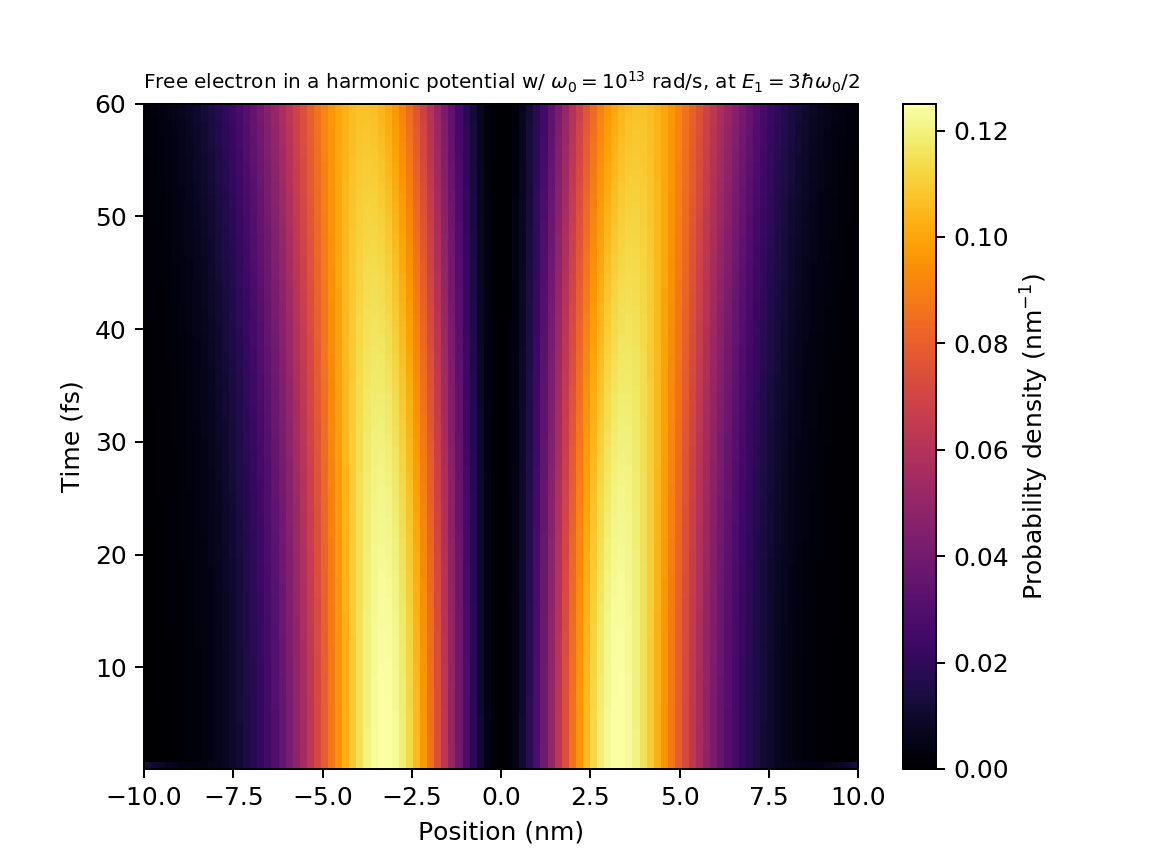
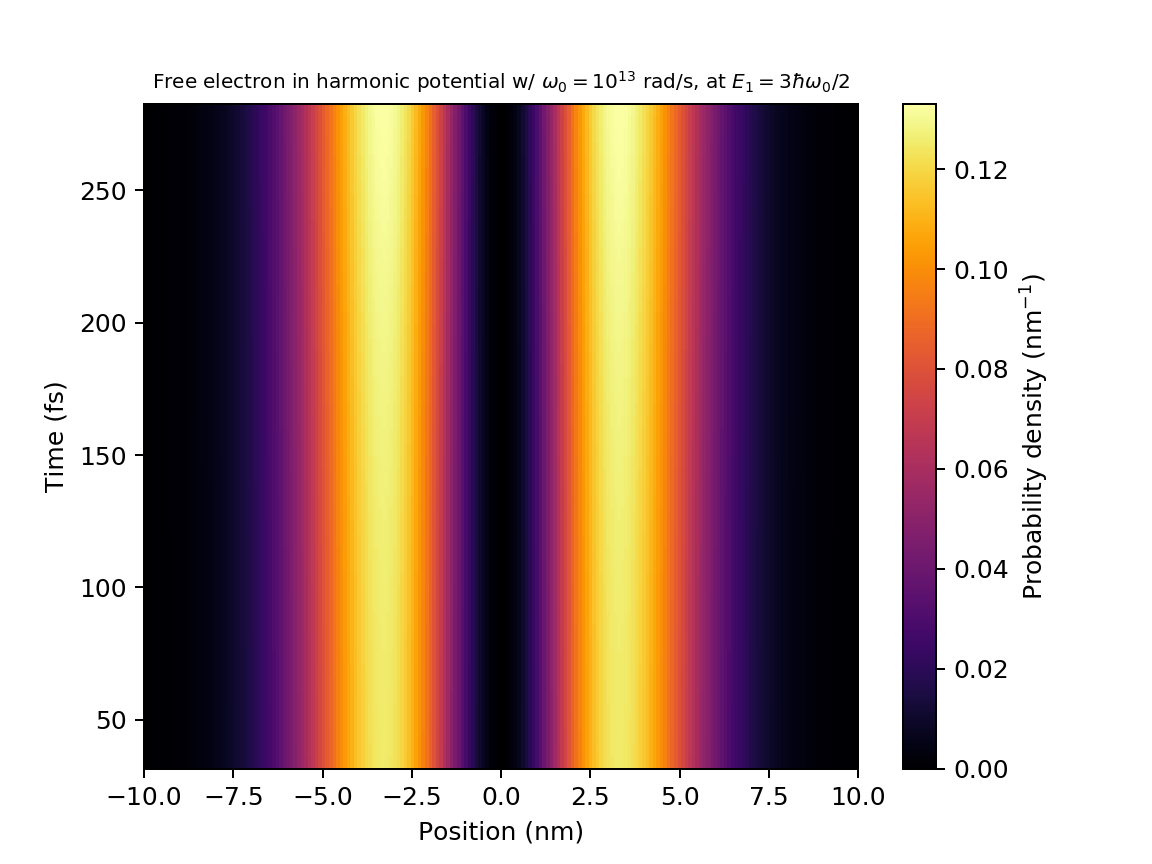
Update and fix example

diff --git a/src/functions.h b/src/functions.h
@@ -11,16 +11,14 @@
 #define TIME_FACTOR 1e-15
 #define M 9.1e-31
 
+#define W0 1.0e13
+
 static inline double V(double x, double t) {
-	return 0.0;
+	return M * W0 * W0 * x * x / 2.0;
 }
 
 static inline double complex wave_fn(double x) {
-	const double sigma = 0.055 * SCALE_FACTOR;
-	const double p0 = M * 6 * SCALE_FACTOR / TIME_FACTOR;
-	const double normalization_factor = 1.0 / sqrt(sqrt(PI * sigma * sigma));
-
-	return normalization_factor * cexp(-x * x / (2.0 * sigma * sigma)) * cexp(I * x * p0 / HBAR);
+	return sqrt(sqrt(M * W0 / (PI * HBAR))) * sqrt(2.0 * M * W0 / HBAR) * x * exp(-0.5 * M * W0 / HBAR * x * x);
 }
 
 #endif // FUNCTIONS_H
